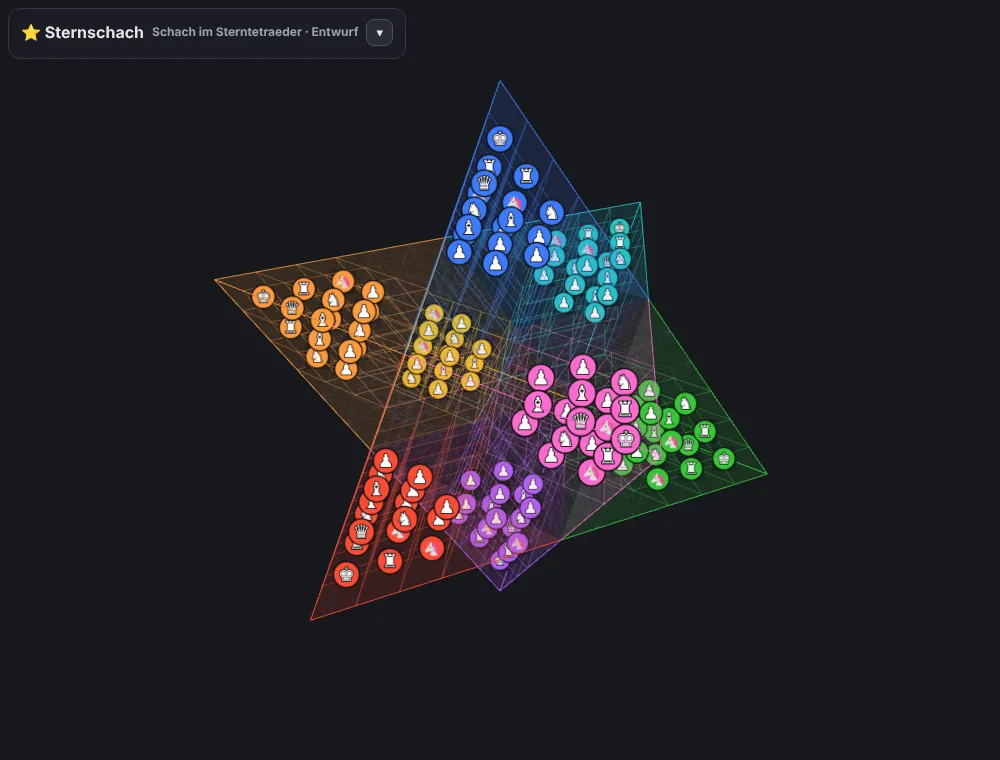
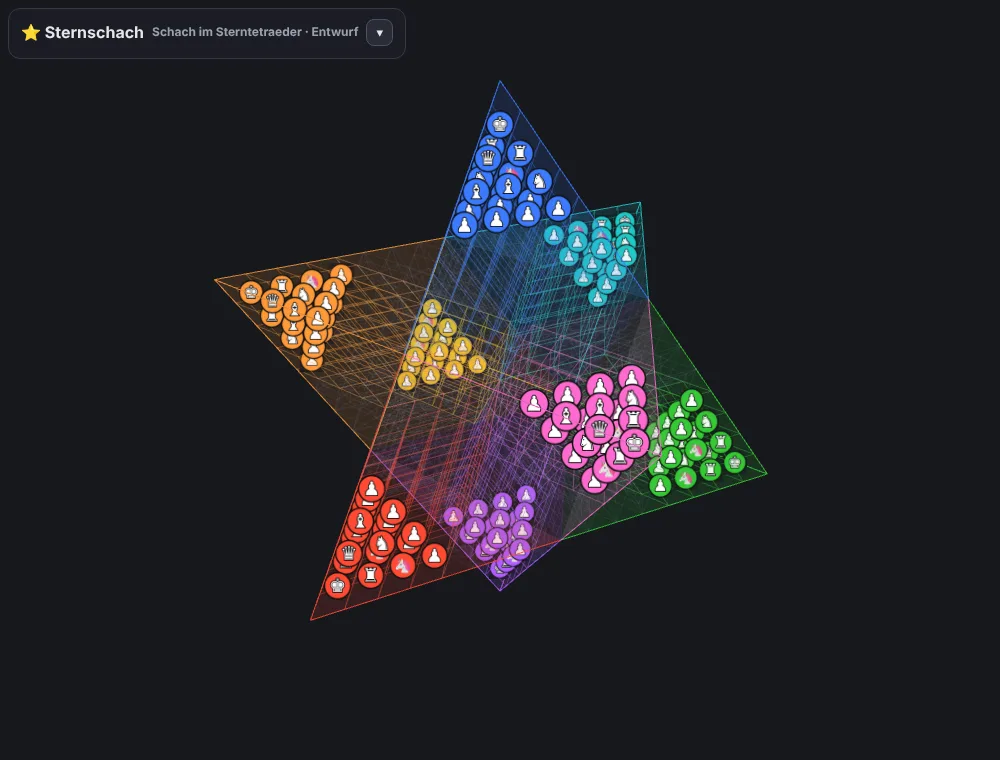
Sternschach: Spitzen mit 4×4×4 Rhomboedern, 4 Schichten in den Zwischenräumen (2.048 Felder)
Claude-Session: https://claude.ai/code/session_01NddvV5MEj1zCq5Yh3nC9JG

Changed region(s): [[0.217, 0.1513, 0.744, 0.7868]]

diff --git a/stern.html b/stern.html
@@ -54,7 +54,7 @@ a { color:#8fb6ff; }
 <div id="ui">
  <h1>⭐ Sternschach <span class="hint">Schach im Sterntetraeder · Entwurf</span><button id="minBtn" onclick="toggleUI()" title="Leiste ein-/ausklappen">▴</button></h1>
  <div class="body">
-  <div class="hint">Der Sterntetraeder ist der räumliche Davidstern mit 8 Spitzen. In jeder Spitze liegen 3 × 3 × 3 gleiche Rhomboeder-Felder, dazwischen sechs Zwischenräume. Jedes Heer steht in einer Spitze. Figur antippen → ihre Züge leuchten (grün = frei, rot = Schlagen). Ziehen = drehen, Rad/zwei Finger = Zoom, Rechtsklick-Ziehen/zwei Finger = verschieben.</div>
+  <div class="hint">Der Sterntetraeder ist der räumliche Davidstern mit 8 Spitzen. In jeder Spitze liegen 4 × 4 × 4 gleiche Rhomboeder-Felder, dazwischen sechs Zwischenräume. Jedes Heer steht in einer Spitze. Figur antippen → ihre Züge leuchten (grün = frei, rot = Schlagen). Ziehen = drehen, Rad/zwei Finger = Zoom, Rechtsklick-Ziehen/zwei Finger = verschieben.</div>
 
   <h2>Partie</h2>
   <div id="gameSetup">
@@ -136,12 +136,12 @@ a { color:#8fb6ff; }
 <script src="lib/reiche3d.js"></script>
 <script src="lib/monsters.js?v=2026102010"></script>
 <script src="lib/kit.js?v=2026102101"></script>
-<script src="lib/sternbrett.js?v=2026102101"></script>
+<script src="lib/sternbrett.js?v=2026102102"></script>
 <script>
 'use strict';
 // ================= Spielfeld =================
-// Der Sterntetraeder (räumlicher Davidstern) mit 864 Feldern, siehe lib/sternbrett.js:
-// in jeder der 8 Spitzen 3 × 3 × 3 gleiche Rhomboeder, dazwischen 6 Zwischenräume aus je 4 × 27 Feldern.
+// Der Sterntetraeder (räumlicher Davidstern) mit 2.048 Feldern, siehe lib/sternbrett.js:
+// in jeder der 8 Spitzen 4 × 4 × 4 gleiche Rhomboeder, dazwischen 6 Zwischenräume aus je 4 × 64 Feldern.
 // Ein Feld ist [nummer]; key() macht daraus den Schlüssel für die Stellung.
 const NC=SB.NC,CELLS=SB.CELLS;
 const PL=['B','G','R','Y','L','T','O','I'];
@@ -482,11 +482,11 @@ function buildPalette(){
     if(pal.t===t)b.classList.add('on');b.onclick=()=>{pal.t=t;buildPalette();};cr.appendChild(b);}
 }
 // Teilen: Spielerzahl + Figuren (Spieler, Typ, x,y,z als Ziffern 0–9)
-function encode(){const ps=[...S].map(([k,v])=>v.p+v.t+(+k).toString(36).padStart(2,'0')+(v.m?'m':'')).join('-');
-  return 's2_'+lastN+'_'+ps;}
-function decode(s){try{const[ver,n,ps]=s.split('_');if(ver!=='s2')return false;
+function encode(){const ps=[...S].map(([k,v])=>v.p+v.t+(+k).toString(36).padStart(3,'0')+(v.m?'m':'')).join('-');
+  return 's3_'+lastN+'_'+ps;}
+function decode(s){try{const[ver,n,ps]=s.split('_');if(ver!=='s3')return false;
   if(CORN[+n]){lastN=+n;CFG=CORN[lastN];}
-  S=new Map();for(const e of(ps||'').split('-').filter(Boolean)){const p=e[0],t=e[1],id=parseInt(e.slice(2,4),36);if(PL.includes(p)&&GLYPH[t]&&valid(id))S.set(key(id),{p,t,m:e[4]==='m'});}
+  S=new Map();for(const e of(ps||'').split('-').filter(Boolean)){const p=e[0],t=e[1],id=parseInt(e.slice(2,5),36);if(PL.includes(p)&&GLYPH[t]&&valid(id))S.set(key(id),{p,t,m:e[5]==='m'});}
   if(typeof buildGrid==='function')buildGrid();
   return true;}catch(e){return false;}}
 function share(){const u=location.origin+location.pathname+'?r='+encode();const f=document.getElementById('shareTxt');f.style.display='block';f.value=u;
@@ -895,7 +895,7 @@ addEventListener('keydown',e=>{if((e.ctrlKey||e.metaKey)&&e.key==='z'){e.prevent
 
 // ================= Start =================
 function gridOp(){gridGroup.traverse(o=>{if(o.material&&o.material.opacity!==undefined){if(o.userData.op0===undefined)o.userData.op0=o.material.opacity;o.material.opacity=o.userData.op0*(SPACE_ON?0.7:1);}});}
-KIT.init({game:'stern',title:'Sternschach',descr:'Schach im Sterntetraeder, dem räumlichen Davidstern: ein 864 Felder, in den 8 Spitzen gleiche Rhomboeder; 2 bis 8 Heere in den Spitzen, mit Einhorn',
+KIT.init({game:'stern',title:'Sternschach',descr:'Schach im Sterntetraeder, dem räumlichen Davidstern mit 2.048 Feldern; in den 8 Spitzen gleiche Rhomboeder; 2 bis 8 Heere in den Spitzen, mit Einhorn',
   PCOL,PNAME,VAL,material,gm:()=>GM,on:()=>ON,seatName,render:()=>render(),srvBase,moveText,anaPos,anaScores,anaRestore,timeout,mon3d:monDraw,clockShow:()=>renderTurn(),
   onColors:()=>{for(const k in TEX)delete TEX[k];buildGrid();buildPalette();render();},
   snap:snapGame,load:loadGame,moveList:()=>moves,replayShow,resume:()=>{if(GM&&!GM.over)turnStart();},poll:()=>onPoll(),varEnter,varExit,varUndo:()=>undo(),varAI,showMove});
@@ -905,7 +905,7 @@ for(const k in TEX)delete TEX[k];buildGrid();
 // ---------- Einführung ----------
 function tourStart(){const ui=document.getElementById('ui');if(ui.classList.contains('min'))toggleUI();
   KIT.tour([
-  {t:'⭐ Willkommen im Sternschach',x:'Der Sterntetraeder ist der räumliche Davidstern – von oben gesehen genau das Brett des Drei-Personen-Schachs. In jeder seiner 8 Spitzen liegen 3 × 3 × 3 gleiche Rhomboeder-Felder; die Spitzen treffen sich in der Mitte, dazwischen liegen sechs Zwischenräume. Jedes Heer steht in einer Spitze.',run:()=>viewReset()},
+  {t:'⭐ Willkommen im Sternschach',x:'Der Sterntetraeder ist der räumliche Davidstern – von oben gesehen genau das Brett des Drei-Personen-Schachs. In jeder seiner 8 Spitzen liegen 4 × 4 × 4 gleiche Rhomboeder-Felder; die Spitzen treffen sich in der Mitte, dazwischen liegen sechs Zwischenräume. Jedes Heer steht in einer Spitze.',run:()=>viewReset()},
   {t:'Drehen, zoomen, verschieben',x:'Ziehen dreht den Stern, Mausrad oder zwei Finger zoomen, Rechtsklick-Ziehen verschiebt. Doppelklick zeigt wieder den ganzen Stern. Mit „🎯 Meine Armee“ schaust du von außen in deine Spitze.'},
   {t:'Figur antippen',x:'Grüne Kugeln: freie Felder. Rote Kugeln: Schlagen. Gerade Linien laufen von Feld zu Feld weiter und knicken in den Zwischenräumen – wie im Drei-Personen-Schach über die Mitte. Gegnerische Figuren zeigen ihre Züge hellblau und orange, nur zur Ansicht.'},
   {t:'Die Figuren',x:'König ganz außen in der Spitze, davor Dame und zwei Türme, dann Läufer, Springer und Einhörner, davor sieben Bauern. Die Bauern ziehen immer weiter weg von der eigenen Spitze und schlagen schräg nach vorn. In einer fremden Spitze werden sie zur Dame.'},

diff --git a/stern-regeln.html b/stern-regeln.html
@@ -27,8 +27,8 @@
 <h2>Das Spielfeld</h2>
 <figure><img src="img/stern-oben.webp" alt="Der Sterntetraeder von oben: ein Davidstern" loading="lazy"><figcaption>Von oben gesehen: der Davidstern des Drei-Personen-Schachs.</figcaption></figure>
 <ul>
-<li>Das Spielfeld ist ein genauer Sterntetraeder mit <b>864 Feldern</b>.</li>
-<li>In jeder der <b>8 Spitzen</b> liegt ein großes Rhomboeder aus <b>3 × 3 × 3 gleichen Rhomboeder-Feldern</b> – schräge Würfel mit Winkeln von 60°, genau so schräg wie die Kanten der Spitze. Das ist die Heimat eines Heeres. Die 8 Spitzen-Rhomboeder berühren sich in der Mitte des Sterns. Freie Spitzen gehören niemandem.</li>
+<li>Das Spielfeld ist ein genauer Sterntetraeder mit <b>2.048 Feldern</b>.</li>
+<li>In jeder der <b>8 Spitzen</b> liegt ein großes Rhomboeder aus <b>4 × 4 × 4 gleichen Rhomboeder-Feldern</b> – schräge Würfel mit Winkeln von 60°, genau so schräg wie die Kanten der Spitze. Das ist die Heimat eines Heeres. Die 8 Spitzen-Rhomboeder berühren sich in der Mitte des Sterns. Freie Spitzen gehören niemandem.</li>
 <li>Dazwischen liegen <b>sechs Zwischenräume</b>, je um eine Ecke des inneren Oktaeders. Ihre Felder sind keilförmig verzogen und werden zur Oberfläche hin flacher.</li>
 <li>Alle 8 Spitzen sind <b>völlig gleichwertig</b>: Von jeder Spitze aus sieht der Stern gleich aus.</li>
 <li>Felder werden nach Bereich benannt: <b>S1–S8</b> für die Spitzen, <b>M1–M6</b> für die Zwischenräume, dazu drei Ziffern für die Lage, zum Beispiel <b>S1·123</b> – das Spiel zeigt beim Antippen jedes Feld mit Namen an.</li>

diff --git a/lib/sternbrett.js b/lib/sternbrett.js
@@ -8,7 +8,7 @@
 //  Springer – zwei Schritte in eine Richtung, einer quer dazu (Richtungen werden von Feld zu Feld mitgeführt)
 (function(G){
 'use strict';
-const n=3,m=3,S=5;
+const n=4,m=4,S=5;
 const SIGNS=[[1,1,1],[-1,-1,-1],[1,-1,-1],[-1,1,-1],[-1,-1,1],[-1,1,1],[1,-1,1],[1,1,-1]];
 const add=(a,b)=>[a[0]+b[0],a[1]+b[1],a[2]+b[2]],sub=(a,b)=>[a[0]-b[0],a[1]-b[1],a[2]-b[2]],mul=(a,k)=>[a[0]*k,a[1]*k,a[2]*k];
 const dot=(a,b)=>a[0]*b[0]+a[1]*b[1]+a[2]*b[2],len=a=>Math.sqrt(dot(a,a)),nrm=a=>{const l=len(a)||1;return mul(a,1/l);};

diff --git a/tools/build_site.py b/tools/build_site.py
@@ -208,7 +208,7 @@ page('ueber.html', 'Über das Spiel – Drei-Personen-Schach',
 
 page('reiche-regeln.html', 'Schach der 6 Reiche – Regeln', 'Regeln für Schach der 6 Reiche (Sd6R): Schach im Würfel aus 8 × 8 × 8 Feldern für 2 bis 6 Spieler, mit Einhorn, Nachtreiter, Amazone und mehr.', '<article>\n<h1>Schach der 6 Reiche</h1>\n<p class="lead">Ein Würfel aus 8 × 8 × 8 Feldern, an jeder seiner sechs Seiten ein Reich: der Heimatquader eines Spielers. Bis zu sechs Heere ziehen von allen Seiten in den Würfel – oben, unten, links, rechts, vorne, hinten. Kurz: <b>Sd6R</b>.</p>\n<p style="text-align:center"><a class="cta go" href="raum.html">▶ Schach der 6 Reiche spielen</a></p>\n<figure><img src="img/reiche-brett.webp" alt="Der Würfel mit sechs Heimatquadern in sechs Farben" loading="lazy"><figcaption>Sechs Reiche, sechs Farben: Blau, Grün, Rot, Gelb, Lila und Türkis.</figcaption></figure>\n<h2>Das Spielfeld</h2>\n<ul>\n<li><b>Der Würfel</b> in der Mitte hat 8 × 8 × 8 = 512 Felder. Er ist zu Beginn leer – hier wird gekämpft.</li>\n<li>An jeder Seite liegt ein <b>Heimatquader</b> mit 8 × 8 × 4 Feldern. Dort stehen zu Beginn die Figuren eines Spielers.</li>\n<li>Zusammen sind es 2.048 Felder. Die Ecken und Kanten außerhalb des Würfels gehören nicht zum Spielfeld.</li>\n<li>Felder werden mit drei Zahlen von 1 bis 16 benannt, zum Beispiel <b>8·8·8</b> – das Spiel zeigt beim Antippen jedes Feld mit Namen an.</li>\n</ul>\n<h2>Spieler und Reihenfolge</h2>\n<p>Gespielt wird zu zweit, zu dritt, zu viert oder zu sechst; freie Plätze übernimmt auf Wunsch der Computer. Zu zweit stehen sich Blau und Grün gegenüber, zu viert sitzen Blau, Rot, Grün und Gelb im Kreis um den Würfel, zu sechst kommen Lila (unten) und Türkis (oben) dazu. Gezogen wird reihum. Wer einlädt, legt fest, wie viele mitspielen, wer Computer ist und wie die Partie endet.</p>\n<h2>Die Aufstellung</h2>\n<figure><img src="img/reiche-armee.webp" alt="Die blaue Armee in ihrem Heimatquader" loading="lazy"><figcaption>Standard: auf der äußersten Ebene 64 Admiräle, davor 64 Bauern.</figcaption></figure>\n<p>Standard ist die große Aufstellung: Auf der äußersten Ebene des Heimatquaders stehen 64 Admiräle – acht Reihen, in der mittleren der König mit Dame, Türmen, Läufern und Springern, darum herum die besonderen Figuren. Davor füllen 64 Bauern eine ganze Ebene. Zwei Ebenen bleiben frei bis zum Würfel. Wer es kleiner mag, wählt im Spiel eine Reihe mit 8 Bauern, zwei Reihen oder einen Block von 4 × 4 Bauern.</p>\n<h2>Richtungen im Raum</h2>\n<p>Im Würfel gibt es von jedem Feld aus drei Arten von Richtungen:</p>\n<ul><li><b>Achsen</b> (6): ein Schritt nach links/rechts, vorne/hinten oder oben/unten.</li>\n<li><b>Flächendiagonalen</b> (12): zwei Achsen gleichzeitig – wie die Diagonale auf einem Schachbrett.</li>\n<li><b>Raumdiagonalen</b> (8): alle drei Achsen gleichzeitig – quer durch einen kleinen Würfel von Ecke zu Ecke.</li></ul>\n<p>Die Bilder zeigen jede Figur in der Mitte des leeren Würfels; die grünen Punkte sind die Felder, die sie erreichen kann. Figuren mit Zusatzzeichen unten rechts sind zusammengesetzt.</p>\n<h2>Die Figuren</h2>\n<div class="grid"><div class="card"><h3>Turm</h3><figure><img src="img/reiche-fig-R.webp" alt="Turm: Zugmöglichkeiten aus der Würfelmitte" loading="lazy"><figcaption></figcaption></figure><p>Gerade entlang der drei Achsen: links/rechts, vorne/hinten, oben/unten – 6 Richtungen. Aus der Würfelmitte bis zu 45 Felder.</p></div><div class="card"><h3>Läufer</h3><figure><img src="img/reiche-fig-B.webp" alt="Läufer: Zugmöglichkeiten aus der Würfelmitte" loading="lazy"><figcaption></figcaption></figure><p>Über die Flächendiagonalen – zwei Achsen gleichzeitig, wie der Läufer auf einem Brett, nur in allen drei Ebenen: 12 Richtungen. Als Einstellung auch zusätzlich über die Raumdiagonalen (20 Richtungen).</p></div><div class="card"><h3>Einhorn</h3><figure><img src="img/reiche-fig-U.webp" alt="Einhorn: Zugmöglichkeiten aus der Würfelmitte" loading="lazy"><figcaption></figcaption></figure><p>Nur über die Raumdiagonalen – alle drei Achsen gleichzeitig, von Würfelecke zu gegenüberliegender Würfelecke: 8 Richtungen. Die Figur stammt aus dem Raumschach von Ferdinand Maack (1907).</p></div><div class="card"><h3>Dame</h3><figure><img src="img/reiche-fig-Q.webp" alt="Dame: Zugmöglichkeiten aus der Würfelmitte" loading="lazy"><figcaption></figcaption></figure><p>Turm, Läufer und Einhorn in einer Figur: alle 26 Richtungen (als Einstellung ohne Raumdiagonalen: 18). Aus der Mitte bis zu 118 Felder – die stärkste klassische Figur.</p></div><div class="card"><h3>König</h3><figure><img src="img/reiche-fig-K.webp" alt="König: Zugmöglichkeiten aus der Würfelmitte" loading="lazy"><figcaption></figcaption></figure><p>Ein Feld in jede der 26 Richtungen (als Einstellung ohne Raumdiagonalen: 18). Jeder Spieler hat genau einen König.</p></div><div class="card"><h3>Springer</h3><figure><img src="img/reiche-fig-N.webp" alt="Springer: Zugmöglichkeiten aus der Würfelmitte" loading="lazy"><figcaption></figcaption></figure><p>Zwei Felder in einer Achse und eins in einer zweiten – 24 Zielfelder, über alles hinweg. Als Einstellung zusätzlich „2 + 1 + 1“ über drei Achsen (48 Ziele).</p></div><div class="card"><h3>Nachtreiter</h3><figure><img src="img/reiche-fig-W.webp" alt="Nachtreiter: Zugmöglichkeiten aus der Würfelmitte" loading="lazy"><figcaption></figcaption></figure><p>Ein Springersprung, der in gleicher Richtung beliebig oft wiederholt werden darf, solange jedes Landefeld frei ist. Im leeren Würfel kommt er sehr weit – unterwegs gelandete Felder zeigt das Spiel als Punkte.</p></div><div class="card"><h3>Herzogin</h3><figure><img src="img/reiche-fig-H.webp" alt="Herzogin: Zugmöglichkeiten aus der Würfelmitte" loading="lazy"><figcaption></figcaption></figure><p>Turm + Einhorn: Achsen und Raumdiagonalen.</p></div><div class="card"><h3>Gouverneur</h3><figure><img src="img/reiche-fig-V.webp" alt="Gouverneur: Zugmöglichkeiten aus der Würfelmitte" loading="lazy"><figcaption></figcaption></figure><p>Läufer + Einhorn: Flächen- und Raumdiagonalen.</p></div><div class="card"><h3>Erzbischof</h3><figure><img src="img/reiche-fig-A.webp" alt="Erzbischof: Zugmöglichkeiten aus der Würfelmitte" loading="lazy"><figcaption></figcaption></figure><p>Läufer + Springer.</p></div><div class="card"><h3>Kanzler</h3><figure><img src="img/reiche-fig-C.webp" alt="Kanzler: Zugmöglichkeiten aus der Würfelmitte" loading="lazy"><figcaption></figcaption></figure><p>Turm + Springer.</p></div><div class="card"><h3>Amazone</h3><figure><img src="img/reiche-fig-M.webp" alt="Amazone: Zugmöglichkeiten aus der Würfelmitte" loading="lazy"><figcaption></figcaption></figure><p>Dame + Springer – die stärkste Figur des Spiels, aus der Würfelmitte bis zu 142 Ziele.</p></div></div>\n<h2>Die Bauern</h2>\n<figure><img src="img/reiche-fig-P.webp" alt="Ein blauer Bauer mit zwei Schlagmöglichkeiten" loading="lazy"><figcaption>Der Bauer zieht geradeaus Richtung Würfel und schlägt schräg nach vorn (rote Felder).</figcaption></figure>\n<ul>\n<li>Bauern ziehen ein Feld geradeaus – immer in Richtung des gegenüberliegenden Reichs.</li>\n<li>Im eigenen Heimatquader dürfen sie jedes Mal bis zu zwei Felder ziehen (einstellbar: nur beim ersten Zug oder immer).</li>\n<li>Geschlagen wird schräg nach vorn: vorn-links, vorn-rechts, vorn-oben, vorn-unten – 4 Richtungen (einstellbar: zusätzlich über die Raumdiagonalen, 8).</li>\n<li><b>Umwandlung:</b> Erreicht ein Bauer den Heimatquader gegenüber, wird er zur Dame (einstellbar: erst auf dessen hinterster Ebene).</li>\n</ul>\n<h2>Schach, Matt und Spielende</h2>\n<figure><img src="img/reiche-schach.webp" alt="Ein König im Schach, rot umrahmt" loading="lazy"><figcaption>Ein König im Schach ist rot umrahmt; der letzte Zug ist farbig markiert.</figcaption></figure>\n<ul>\n<li>Wer im Schach steht, muss es aufheben. Kein Zug darf den eigenen König im Schach lassen.</li>\n<li>Wer nicht ziehen kann, ohne im Schach zu stehen, setzt aus.</li>\n<li><b>Spielende – wählt der Gastgeber:</b><br>\n„Erstes Matt entscheidet“: Sobald ein Spieler matt ist, endet die Partie; es gewinnt, wer Schach gegeben hat.<br>\n„Ausscheiden“: Wer matt ist, scheidet aus und seine Figuren verschwinden; es geht weiter, bis einer übrig ist.</li>\n<li>Wer nur noch den König hat, ist geschlagen.</li>\n<li>Sobald einmal geschlagen wurde, gilt: Nach 30 Runden ohne Schlagen und ohne Bauernzug entscheidet das Material (Bauer 1, Springer, Läufer und Einhorn 3, Turm und Nachtreiter 5, Gouverneur 5, Erzbischof 6, Herzogin und Kanzler 7, Dame 9, Amazone 11).</li>\n</ul>\n<h2>Den Überblick behalten</h2>\n<figure><img src="img/reiche-nachtreiter.webp" alt="Der Weg eines Nachtreiters mit allen Zwischenfeldern" loading="lazy"><figcaption>Der letzte Zug mit allen Zwischenlandungen des Nachtreiters.</figcaption></figure>\n<ul>\n<li>Figur antippen: Ihre Züge leuchten grün, Schlagzüge rot. Auch gegnerische Figuren lassen sich antippen – ihre Züge erscheinen hellblau und orange, nur zur Ansicht.</li>\n<li>Der letzte Zug ist in der Farbe des Ziehenden markiert, mit Linie und allen Zwischenlandungen.</li>\n<li>„🎯 Meine Armee“ zeigt die eigene Armee, „Farben“ blendet einzelne Reiche blass oder aus, „Ebene“ greift eine einzelne Schicht heraus.</li>\n<li>Drehen: ziehen. Zoomen: Mausrad oder zwei Finger. Verschieben: Rechtsklick oder zwei Finger.</li>\n</ul>\n<h2>Was alle Varianten gemeinsam haben</h2>\n<ul>\n<li><b>Gegner:</b> Jeder Platz kann ein Mensch an diesem Gerät, ein online eingeladener Mensch oder ein Computer sein – in vier Stärken: leicht, mittel, stark und Meister. Der Meister denkt auch die Antwort der Gegner voraus.</li>\n<li><b>Monster mit Charakter:</b> Die Computergegner heißen Blubbo, Grumbo, Flammo, Zappo, Spuki und Kraki. Sie freuen und ärgern sich auf den Monitoren, schmieden Bündnisse gegen den Führenden, verraten sie auch mal, rächen sich – und sprechen auf Wunsch. Man kann mit ihnen im Chat verhandeln („Grumbo, lass uns gemeinsam Rot angreifen!“). Sie merken sich außerdem, wie die Menschen spielen.</li>\n<li><b>Hilfspflicht (Option ab drei Spielern):</b> Steht ein Spieler im Schach, muss jeder, der vor ihm zieht, ihm helfen: Ist er matt, muss der Zug ihn befreien; ist er nicht matt, darf der Zug ihn nicht mattsetzen. Wer nicht helfen kann, besiegelt das Matt.</li>\n<li><b>Uhr:</b> Zeit pro Zug, Zeit pro Partie oder ohne Uhr. Läuft die Zugzeit ab, verfällt der Zug; ist die Partiezeit verbraucht, scheidet man aus.</li>\n<li><b>Online:</b> live mit Monitoren, Kamera, Mikrofon, Chat, Emoji-Reaktionen, Untertiteln und automatischer Übersetzung – oder als Fernpartie, bei der jeder zieht, wann er Zeit hat (mit Benachrichtigung, wenn man dran ist). Partien lassen sich in der öffentlichen Lobby anbieten; der Gastgeber entscheidet, ob man zuschauen darf.</li>\n<li><b>Nach der Partie:</b> Nachspielen Zug für Zug, Analysebrett mit Vorschlägen des Computers, Auswertung mit Schlüsselmomenten, psychologischer Auswertung (Rache, Nervosität nach Verlusten, stille Bündnisse, gesagt und getan) und auf Wunsch einem professionellen KI-Bericht.</li>\n<li><b>Außerdem:</b> Farben frei wählbar (auch mit Zeichen für Farbenblinde), Geräusche, Pause, Speichern und Laden, „Meine Partien“, Einführung für Neulinge, als App installierbar, Vollbild.</li>\n</ul>\n<p class="note">Schach der 6 Reiche ist ein Entwurf und wird weiterentwickelt. Die Zugregeln lassen sich im Spiel unter „Zugregeln zum Ausprobieren“ umstellen.</p>\n<p style="text-align:center;margin-top:30px"><a class="cta go" href="raum.html">▶ Schach der 6 Reiche spielen</a></p>\n</article>')
 
-page('stern-regeln.html', 'Sternschach – Regeln', 'Regeln für Sternschach: Schach im Sterntetraeder, dem räumlichen Davidstern, für 2 bis 8 Spieler – die Heere stehen in den Spitzen des Sterns.', '<article>\n<h1>Sternschach</h1>\n<p class="lead">Der Sterntetraeder ist der räumliche Davidstern: zwei Tetraeder, die einander durchdringen. Von oben entlang seiner Achse gesehen ist er genau der sechszackige Stern des Drei-Personen-Schachs. Im Sternschach stehen die Heere in seinen Spitzen – und kämpfen sich durch die Mitte.</p>\n<p style="text-align:center"><a class="cta go" href="stern.html">▶ Sternschach spielen</a></p>\n<figure><img src="img/stern-brett.webp" alt="Der Sterntetraeder mit acht Heeren in acht Spitzen" loading="lazy"><figcaption>Acht Heere in den acht Spitzen des Sterns.</figcaption></figure>\n<h2>Das Spielfeld</h2>\n<figure><img src="img/stern-oben.webp" alt="Der Sterntetraeder von oben: ein Davidstern" loading="lazy"><figcaption>Von oben gesehen: der Davidstern des Drei-Personen-Schachs.</figcaption></figure>\n<ul>\n<li>Das Spielfeld ist ein genauer Sterntetraeder mit <b>864 Feldern</b>.</li>\n<li>In jeder der <b>8 Spitzen</b> liegt ein großes Rhomboeder aus <b>3 × 3 × 3 gleichen Rhomboeder-Feldern</b> – schräge Würfel mit Winkeln von 60°, genau so schräg wie die Kanten der Spitze. Das ist die Heimat eines Heeres. Die 8 Spitzen-Rhomboeder berühren sich in der Mitte des Sterns. Freie Spitzen gehören niemandem.</li>\n<li>Dazwischen liegen <b>sechs Zwischenräume</b>, je um eine Ecke des inneren Oktaeders. Ihre Felder sind keilförmig verzogen und werden zur Oberfläche hin flacher.</li>\n<li>Alle 8 Spitzen sind <b>völlig gleichwertig</b>: Von jeder Spitze aus sieht der Stern gleich aus.</li>\n<li>Felder werden nach Bereich benannt: <b>S1–S8</b> für die Spitzen, <b>M1–M6</b> für die Zwischenräume, dazu drei Ziffern für die Lage, zum Beispiel <b>S1·123</b> – das Spiel zeigt beim Antippen jedes Feld mit Namen an.</li>\n</ul>\n<h2>Spieler und Spitzen</h2>\n<figure><img src="img/stern-zwei.webp" alt="Zwei Heere an den beiden Polen" loading="lazy"><figcaption>Zu zweit: die beiden Pole, oben und unten.</figcaption></figure>\n<ul>\n<li><b>Zu zweit</b> stehen sich Blau und Grün an den beiden Polen gegenüber.</li>\n<li><b>Zu dritt</b> stehen Blau, Rot und Lila an drei Spitzen desselben Tetraeders – wie die drei Spieler im Drei-Personen-Schach.</li>\n<li><b>Zu viert</b> besetzen Blau, Rot, Grün und Gelb alle vier Spitzen eines Tetraeders; jeder ist von jedem gleich weit entfernt.</li>\n<li><b>Zu sechst</b> stehen die Heere im Ring der sechs Spitzen um die Mitte – wie die sechs Reiche. Die Pole bleiben frei.</li>\n<li><b>Zu acht</b> ist jede Spitze besetzt: Blau, Rot, Grün und Gelb im einen Tetraeder, Lila, Türkis, Orange und Rosa im anderen. Jeder hat genau gegenüber einen Gegner.</li>\n<li>Gezogen wird reihum. Wer einlädt, legt fest, wie viele mitspielen, wer Computer ist und wie die Partie endet.</li>\n</ul>\n<h2>Die Aufstellung</h2>\n<figure><img src="img/stern-armee.webp" alt="Das blaue Heer in seiner Spitze" loading="lazy"><figcaption>Ein Heer in seiner Spitze: ganz außen der König, davor Dame und Türme, dann Läufer, Springer und Einhörner, davor die Bauern.</figcaption></figure>\n<p>Jedes Heer hat 17 Figuren, gestaffelt nach dem Abstand zur Spitze: ganz außen der <b>König</b>, eine Lage tiefer <b>Dame und zwei Türme</b>, dann <b>zwei Läufer, zwei Springer und zwei Einhörner</b>, davor eine Wand aus <b>sieben Bauern</b>. Dahinter bleibt in der Spitze noch Platz bis zur Mitte.</p>\n<h2>Die Figuren</h2>\n<figure><img src="img/stern-dame.webp" alt="Eine Dame in einem Zwischenraum mit allen Zielfeldern" loading="lazy"><figcaption>Eine Dame in einem Zwischenraum: Ihre Linien reichen bis in die Spitzen und knicken unterwegs.</figcaption></figure>\n<p>Jedes Feld hat 6 Flächen, 12 Kanten und 8 Ecken. Danach richten sich die Figuren:</p>\n<ul>\n<li><b>Turm:</b> durch eine Fläche ins Nachbarfeld und durch die gegenüberliegende Fläche weiter – geradeaus, bis etwas im Weg steht.</li>\n<li><b>Läufer:</b> über eine Kante schräg ins gegenüberliegende Feld und über dessen gegenüberliegende Kante weiter – wie der Läufer auf einem Brett.</li>\n<li><b>Einhorn:</b> über eine Ecke ins gegenüberliegende Feld und weiter. Es stammt aus dem Raumschach von 1907.</li>\n<li><b>Dame:</b> Turm, Läufer und Einhorn in einer Figur.</li>\n<li><b>König:</b> ein Schritt, wie ihn die Dame machen kann.</li>\n<li><b>Springer:</b> zwei Felder geradeaus und eins quer dazu – über alles hinweg.</li>\n<li>In den Spitzen verlaufen alle Linien wie in einem schrägen Würfel. In den Zwischenräumen und durch die Mitte knicken sie – das Spiel zeigt jede Linie an.</li>\n<li>Im Setzen-Werkzeug des Analysebretts gibt es außerdem die Märchenfiguren aus dem Schach der 6 Reiche: Herzogin, Gouverneur, Erzbischof, Kanzler, Amazone und Nachtreiter.</li>\n</ul>\n<h2>Die Bauern</h2>\n<figure><img src="img/stern-bauer.webp" alt="Ein Bauer mit drei Zugfeldern und zwei Schlagmöglichkeiten" loading="lazy"><figcaption>Ein blauer Bauer: Felder von der Spitze weg (grün) und Schlagzüge (rot).</figcaption></figure>\n<ul>\n<li>Bauern ziehen ein Feld <b>weiter weg von der eigenen Spitze</b> – in der Spitze sind das die drei Richtungen zur Mitte.</li>\n<li>Solange sie in der eigenen Spitze stehen, dürfen sie dabei auch zwei Felder geradeaus ziehen.</li>\n<li>Geschlagen wird <b>schräg nach vorn</b>: über eine Kante, die zwei Schritte weiter von der eigenen Spitze wegführt.</li>\n<li><b>Umwandlung:</b> Betritt ein Bauer eine fremde Spitze – besetzt oder frei –, wird er zur Dame.</li>\n</ul>\n<h2>Schach, Matt und Spielende</h2>\n<ul>\n<li>Wer im Schach steht, muss es aufheben. Kein Zug darf den eigenen König im Schach lassen. Ein König im Schach ist rot umrahmt.</li>\n<li><b>Spielende – wählt der Gastgeber:</b> „Erstes Matt entscheidet“: Es gewinnt, wer mattsetzt. „Ausscheiden“: Wer matt ist, scheidet aus und seine Figuren verschwinden; es geht weiter, bis einer übrig ist.</li>\n<li>Wer nur noch den König hat, ist geschlagen. Wer nicht ziehen kann, ohne im Schach zu stehen, setzt aus.</li>\n<li>Sobald einmal geschlagen wurde: Nach 30 Runden ohne Schlagen und ohne Bauernzug entscheidet das Material (Bauer 1, Springer, Läufer und Einhorn 3, Turm 5, Dame 9).</li>\n</ul>\n<h2>Den Überblick behalten</h2>\n<figure><img src="img/stern-partie.webp" alt="Eine laufende Partie zu acht mit Monitoren und Monstern" loading="lazy"><figcaption>Zu acht gegen sieben Monster – die Monitore schweben hinter den Spitzen.</figcaption></figure>\n<ul>\n<li><b>Drehen:</b> ziehen. <b>Zoomen:</b> Mausrad oder zwei Finger. <b>Verschieben:</b> Rechtsklick oder zwei Finger. <b>Doppelklick:</b> ganzer Stern.</li>\n<li>„🎯 Meine Armee“ schaut von außen in die eigene Spitze, „Farben“ blendet einzelne Heere blass oder aus, „Bereich“ greift eine Spitze oder einen Zwischenraum heraus.</li>\n<li>Figur antippen: Ihre Züge leuchten grün, Schlagzüge rot. Gegnerische Figuren zeigen ihre Züge hellblau und orange, nur zur Ansicht. Der letzte Zug ist in der Farbe des Ziehenden markiert.</li>\n</ul>\n<h2>Was alle Varianten gemeinsam haben</h2>\n<ul>\n<li><b>Gegner:</b> Jeder Platz kann ein Mensch an diesem Gerät, ein online eingeladener Mensch oder ein Computer sein – in vier Stärken: leicht, mittel, stark und Meister. Der Meister denkt auch die Antwort der Gegner voraus.</li>\n<li><b>Monster mit Charakter:</b> Die Computergegner heißen Blubbo, Grumbo, Flammo, Zappo, Spuki, Kraki, Sonno und Fluffi. Sie freuen und ärgern sich auf den Monitoren, schmieden Bündnisse gegen den Führenden, verraten sie auch mal, rächen sich – und sprechen auf Wunsch. Man kann mit ihnen im Chat verhandeln („Grumbo, lass uns gemeinsam Rot angreifen!“). Sie merken sich außerdem, wie die Menschen spielen.</li>\n<li><b>Hilfspflicht (Option ab drei Spielern):</b> Steht ein Spieler im Schach, muss jeder, der vor ihm zieht, ihm helfen: Ist er matt, muss der Zug ihn befreien; ist er nicht matt, darf der Zug ihn nicht mattsetzen. Wer nicht helfen kann, besiegelt das Matt.</li>\n<li><b>Uhr:</b> Zeit pro Zug, Zeit pro Partie oder ohne Uhr. Läuft die Zugzeit ab, verfällt der Zug; ist die Partiezeit verbraucht, scheidet man aus.</li>\n<li><b>Online:</b> live mit Monitoren, Kamera, Mikrofon, Chat, Emoji-Reaktionen, Untertiteln und automatischer Übersetzung – oder als Fernpartie, bei der jeder zieht, wann er Zeit hat (mit Benachrichtigung, wenn man dran ist). Partien lassen sich in der öffentlichen Lobby anbieten; der Gastgeber entscheidet, ob man zuschauen darf.</li>\n<li><b>Nach der Partie:</b> Nachspielen Zug für Zug, Analysebrett mit Vorschlägen des Computers, Auswertung mit Schlüsselmomenten, psychologischer Auswertung (Rache, Nervosität nach Verlusten, stille Bündnisse, gesagt und getan) und auf Wunsch einem professionellen KI-Bericht.</li>\n<li><b>Außerdem:</b> Farben frei wählbar (auch mit Zeichen für Farbenblinde), Geräusche, Pause, Speichern und Laden, „Meine Partien“, Einführung für Neulinge, als App installierbar, Vollbild.</li>\n</ul>\n<p class="note">Sternschach ist ein Entwurf und wird weiterentwickelt.</p>\n<p style="text-align:center;margin-top:30px"><a class="cta go" href="stern.html">▶ Sternschach spielen</a></p>\n</article>')
+page('stern-regeln.html', 'Sternschach – Regeln', 'Regeln für Sternschach: Schach im Sterntetraeder, dem räumlichen Davidstern, für 2 bis 8 Spieler – die Heere stehen in den Spitzen des Sterns.', '<article>\n<h1>Sternschach</h1>\n<p class="lead">Der Sterntetraeder ist der räumliche Davidstern: zwei Tetraeder, die einander durchdringen. Von oben entlang seiner Achse gesehen ist er genau der sechszackige Stern des Drei-Personen-Schachs. Im Sternschach stehen die Heere in seinen Spitzen – und kämpfen sich durch die Mitte.</p>\n<p style="text-align:center"><a class="cta go" href="stern.html">▶ Sternschach spielen</a></p>\n<figure><img src="img/stern-brett.webp" alt="Der Sterntetraeder mit acht Heeren in acht Spitzen" loading="lazy"><figcaption>Acht Heere in den acht Spitzen des Sterns.</figcaption></figure>\n<h2>Das Spielfeld</h2>\n<figure><img src="img/stern-oben.webp" alt="Der Sterntetraeder von oben: ein Davidstern" loading="lazy"><figcaption>Von oben gesehen: der Davidstern des Drei-Personen-Schachs.</figcaption></figure>\n<ul>\n<li>Das Spielfeld ist ein genauer Sterntetraeder mit <b>2.048 Feldern</b>.</li>\n<li>In jeder der <b>8 Spitzen</b> liegt ein großes Rhomboeder aus <b>4 × 4 × 4 gleichen Rhomboeder-Feldern</b> – schräge Würfel mit Winkeln von 60°, genau so schräg wie die Kanten der Spitze. Das ist die Heimat eines Heeres. Die 8 Spitzen-Rhomboeder berühren sich in der Mitte des Sterns. Freie Spitzen gehören niemandem.</li>\n<li>Dazwischen liegen <b>sechs Zwischenräume</b>, je um eine Ecke des inneren Oktaeders. Ihre Felder sind keilförmig verzogen und werden zur Oberfläche hin flacher.</li>\n<li>Alle 8 Spitzen sind <b>völlig gleichwertig</b>: Von jeder Spitze aus sieht der Stern gleich aus.</li>\n<li>Felder werden nach Bereich benannt: <b>S1–S8</b> für die Spitzen, <b>M1–M6</b> für die Zwischenräume, dazu drei Ziffern für die Lage, zum Beispiel <b>S1·123</b> – das Spiel zeigt beim Antippen jedes Feld mit Namen an.</li>\n</ul>\n<h2>Spieler und Spitzen</h2>\n<figure><img src="img/stern-zwei.webp" alt="Zwei Heere an den beiden Polen" loading="lazy"><figcaption>Zu zweit: die beiden Pole, oben und unten.</figcaption></figure>\n<ul>\n<li><b>Zu zweit</b> stehen sich Blau und Grün an den beiden Polen gegenüber.</li>\n<li><b>Zu dritt</b> stehen Blau, Rot und Lila an drei Spitzen desselben Tetraeders – wie die drei Spieler im Drei-Personen-Schach.</li>\n<li><b>Zu viert</b> besetzen Blau, Rot, Grün und Gelb alle vier Spitzen eines Tetraeders; jeder ist von jedem gleich weit entfernt.</li>\n<li><b>Zu sechst</b> stehen die Heere im Ring der sechs Spitzen um die Mitte – wie die sechs Reiche. Die Pole bleiben frei.</li>\n<li><b>Zu acht</b> ist jede Spitze besetzt: Blau, Rot, Grün und Gelb im einen Tetraeder, Lila, Türkis, Orange und Rosa im anderen. Jeder hat genau gegenüber einen Gegner.</li>\n<li>Gezogen wird reihum. Wer einlädt, legt fest, wie viele mitspielen, wer Computer ist und wie die Partie endet.</li>\n</ul>\n<h2>Die Aufstellung</h2>\n<figure><img src="img/stern-armee.webp" alt="Das blaue Heer in seiner Spitze" loading="lazy"><figcaption>Ein Heer in seiner Spitze: ganz außen der König, davor Dame und Türme, dann Läufer, Springer und Einhörner, davor die Bauern.</figcaption></figure>\n<p>Jedes Heer hat 17 Figuren, gestaffelt nach dem Abstand zur Spitze: ganz außen der <b>König</b>, eine Lage tiefer <b>Dame und zwei Türme</b>, dann <b>zwei Läufer, zwei Springer und zwei Einhörner</b>, davor eine Wand aus <b>sieben Bauern</b>. Dahinter bleibt in der Spitze noch Platz bis zur Mitte.</p>\n<h2>Die Figuren</h2>\n<figure><img src="img/stern-dame.webp" alt="Eine Dame in einem Zwischenraum mit allen Zielfeldern" loading="lazy"><figcaption>Eine Dame in einem Zwischenraum: Ihre Linien reichen bis in die Spitzen und knicken unterwegs.</figcaption></figure>\n<p>Jedes Feld hat 6 Flächen, 12 Kanten und 8 Ecken. Danach richten sich die Figuren:</p>\n<ul>\n<li><b>Turm:</b> durch eine Fläche ins Nachbarfeld und durch die gegenüberliegende Fläche weiter – geradeaus, bis etwas im Weg steht.</li>\n<li><b>Läufer:</b> über eine Kante schräg ins gegenüberliegende Feld und über dessen gegenüberliegende Kante weiter – wie der Läufer auf einem Brett.</li>\n<li><b>Einhorn:</b> über eine Ecke ins gegenüberliegende Feld und weiter. Es stammt aus dem Raumschach von 1907.</li>\n<li><b>Dame:</b> Turm, Läufer und Einhorn in einer Figur.</li>\n<li><b>König:</b> ein Schritt, wie ihn die Dame machen kann.</li>\n<li><b>Springer:</b> zwei Felder geradeaus und eins quer dazu – über alles hinweg.</li>\n<li>In den Spitzen verlaufen alle Linien wie in einem schrägen Würfel. In den Zwischenräumen und durch die Mitte knicken sie – das Spiel zeigt jede Linie an.</li>\n<li>Im Setzen-Werkzeug des Analysebretts gibt es außerdem die Märchenfiguren aus dem Schach der 6 Reiche: Herzogin, Gouverneur, Erzbischof, Kanzler, Amazone und Nachtreiter.</li>\n</ul>\n<h2>Die Bauern</h2>\n<figure><img src="img/stern-bauer.webp" alt="Ein Bauer mit drei Zugfeldern und zwei Schlagmöglichkeiten" loading="lazy"><figcaption>Ein blauer Bauer: Felder von der Spitze weg (grün) und Schlagzüge (rot).</figcaption></figure>\n<ul>\n<li>Bauern ziehen ein Feld <b>weiter weg von der eigenen Spitze</b> – in der Spitze sind das die drei Richtungen zur Mitte.</li>\n<li>Solange sie in der eigenen Spitze stehen, dürfen sie dabei auch zwei Felder geradeaus ziehen.</li>\n<li>Geschlagen wird <b>schräg nach vorn</b>: über eine Kante, die zwei Schritte weiter von der eigenen Spitze wegführt.</li>\n<li><b>Umwandlung:</b> Betritt ein Bauer eine fremde Spitze – besetzt oder frei –, wird er zur Dame.</li>\n</ul>\n<h2>Schach, Matt und Spielende</h2>\n<ul>\n<li>Wer im Schach steht, muss es aufheben. Kein Zug darf den eigenen König im Schach lassen. Ein König im Schach ist rot umrahmt.</li>\n<li><b>Spielende – wählt der Gastgeber:</b> „Erstes Matt entscheidet“: Es gewinnt, wer mattsetzt. „Ausscheiden“: Wer matt ist, scheidet aus und seine Figuren verschwinden; es geht weiter, bis einer übrig ist.</li>\n<li>Wer nur noch den König hat, ist geschlagen. Wer nicht ziehen kann, ohne im Schach zu stehen, setzt aus.</li>\n<li>Sobald einmal geschlagen wurde: Nach 30 Runden ohne Schlagen und ohne Bauernzug entscheidet das Material (Bauer 1, Springer, Läufer und Einhorn 3, Turm 5, Dame 9).</li>\n</ul>\n<h2>Den Überblick behalten</h2>\n<figure><img src="img/stern-partie.webp" alt="Eine laufende Partie zu acht mit Monitoren und Monstern" loading="lazy"><figcaption>Zu acht gegen sieben Monster – die Monitore schweben hinter den Spitzen.</figcaption></figure>\n<ul>\n<li><b>Drehen:</b> ziehen. <b>Zoomen:</b> Mausrad oder zwei Finger. <b>Verschieben:</b> Rechtsklick oder zwei Finger. <b>Doppelklick:</b> ganzer Stern.</li>\n<li>„🎯 Meine Armee“ schaut von außen in die eigene Spitze, „Farben“ blendet einzelne Heere blass oder aus, „Bereich“ greift eine Spitze oder einen Zwischenraum heraus.</li>\n<li>Figur antippen: Ihre Züge leuchten grün, Schlagzüge rot. Gegnerische Figuren zeigen ihre Züge hellblau und orange, nur zur Ansicht. Der letzte Zug ist in der Farbe des Ziehenden markiert.</li>\n</ul>\n<h2>Was alle Varianten gemeinsam haben</h2>\n<ul>\n<li><b>Gegner:</b> Jeder Platz kann ein Mensch an diesem Gerät, ein online eingeladener Mensch oder ein Computer sein – in vier Stärken: leicht, mittel, stark und Meister. Der Meister denkt auch die Antwort der Gegner voraus.</li>\n<li><b>Monster mit Charakter:</b> Die Computergegner heißen Blubbo, Grumbo, Flammo, Zappo, Spuki, Kraki, Sonno und Fluffi. Sie freuen und ärgern sich auf den Monitoren, schmieden Bündnisse gegen den Führenden, verraten sie auch mal, rächen sich – und sprechen auf Wunsch. Man kann mit ihnen im Chat verhandeln („Grumbo, lass uns gemeinsam Rot angreifen!“). Sie merken sich außerdem, wie die Menschen spielen.</li>\n<li><b>Hilfspflicht (Option ab drei Spielern):</b> Steht ein Spieler im Schach, muss jeder, der vor ihm zieht, ihm helfen: Ist er matt, muss der Zug ihn befreien; ist er nicht matt, darf der Zug ihn nicht mattsetzen. Wer nicht helfen kann, besiegelt das Matt.</li>\n<li><b>Uhr:</b> Zeit pro Zug, Zeit pro Partie oder ohne Uhr. Läuft die Zugzeit ab, verfällt der Zug; ist die Partiezeit verbraucht, scheidet man aus.</li>\n<li><b>Online:</b> live mit Monitoren, Kamera, Mikrofon, Chat, Emoji-Reaktionen, Untertiteln und automatischer Übersetzung – oder als Fernpartie, bei der jeder zieht, wann er Zeit hat (mit Benachrichtigung, wenn man dran ist). Partien lassen sich in der öffentlichen Lobby anbieten; der Gastgeber entscheidet, ob man zuschauen darf.</li>\n<li><b>Nach der Partie:</b> Nachspielen Zug für Zug, Analysebrett mit Vorschlägen des Computers, Auswertung mit Schlüsselmomenten, psychologischer Auswertung (Rache, Nervosität nach Verlusten, stille Bündnisse, gesagt und getan) und auf Wunsch einem professionellen KI-Bericht.</li>\n<li><b>Außerdem:</b> Farben frei wählbar (auch mit Zeichen für Farbenblinde), Geräusche, Pause, Speichern und Laden, „Meine Partien“, Einführung für Neulinge, als App installierbar, Vollbild.</li>\n</ul>\n<p class="note">Sternschach ist ein Entwurf und wird weiterentwickelt.</p>\n<p style="text-align:center;margin-top:30px"><a class="cta go" href="stern.html">▶ Sternschach spielen</a></p>\n</article>')
 
 # ---------- Impressum ----------
 IMP = {
